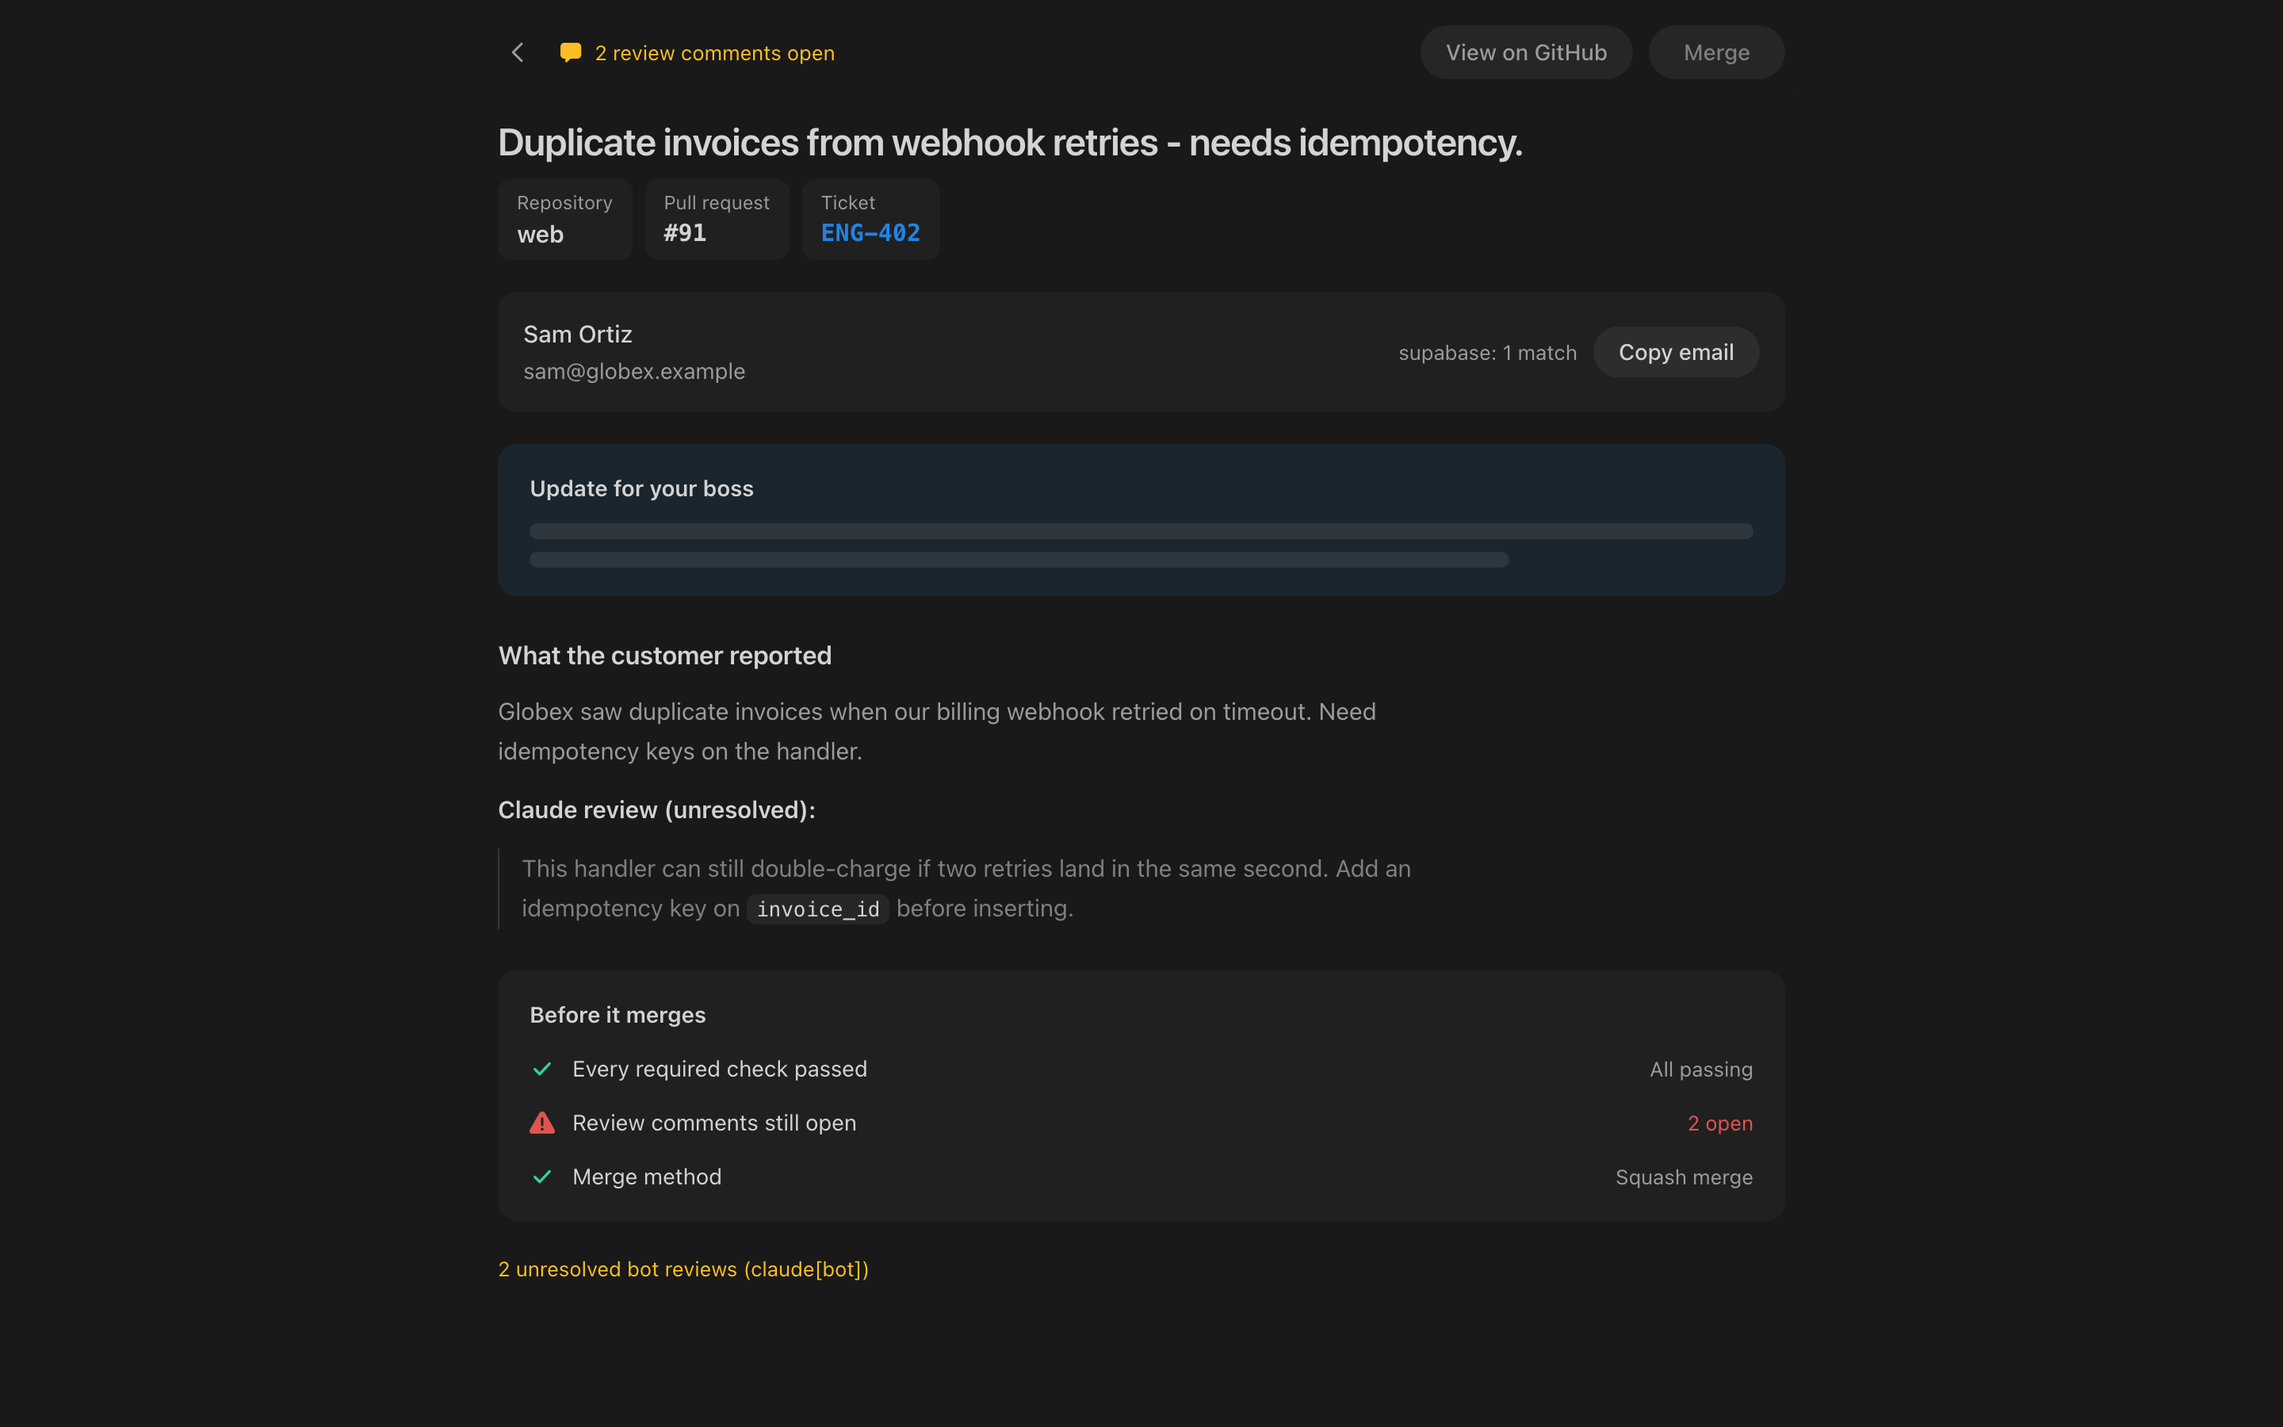
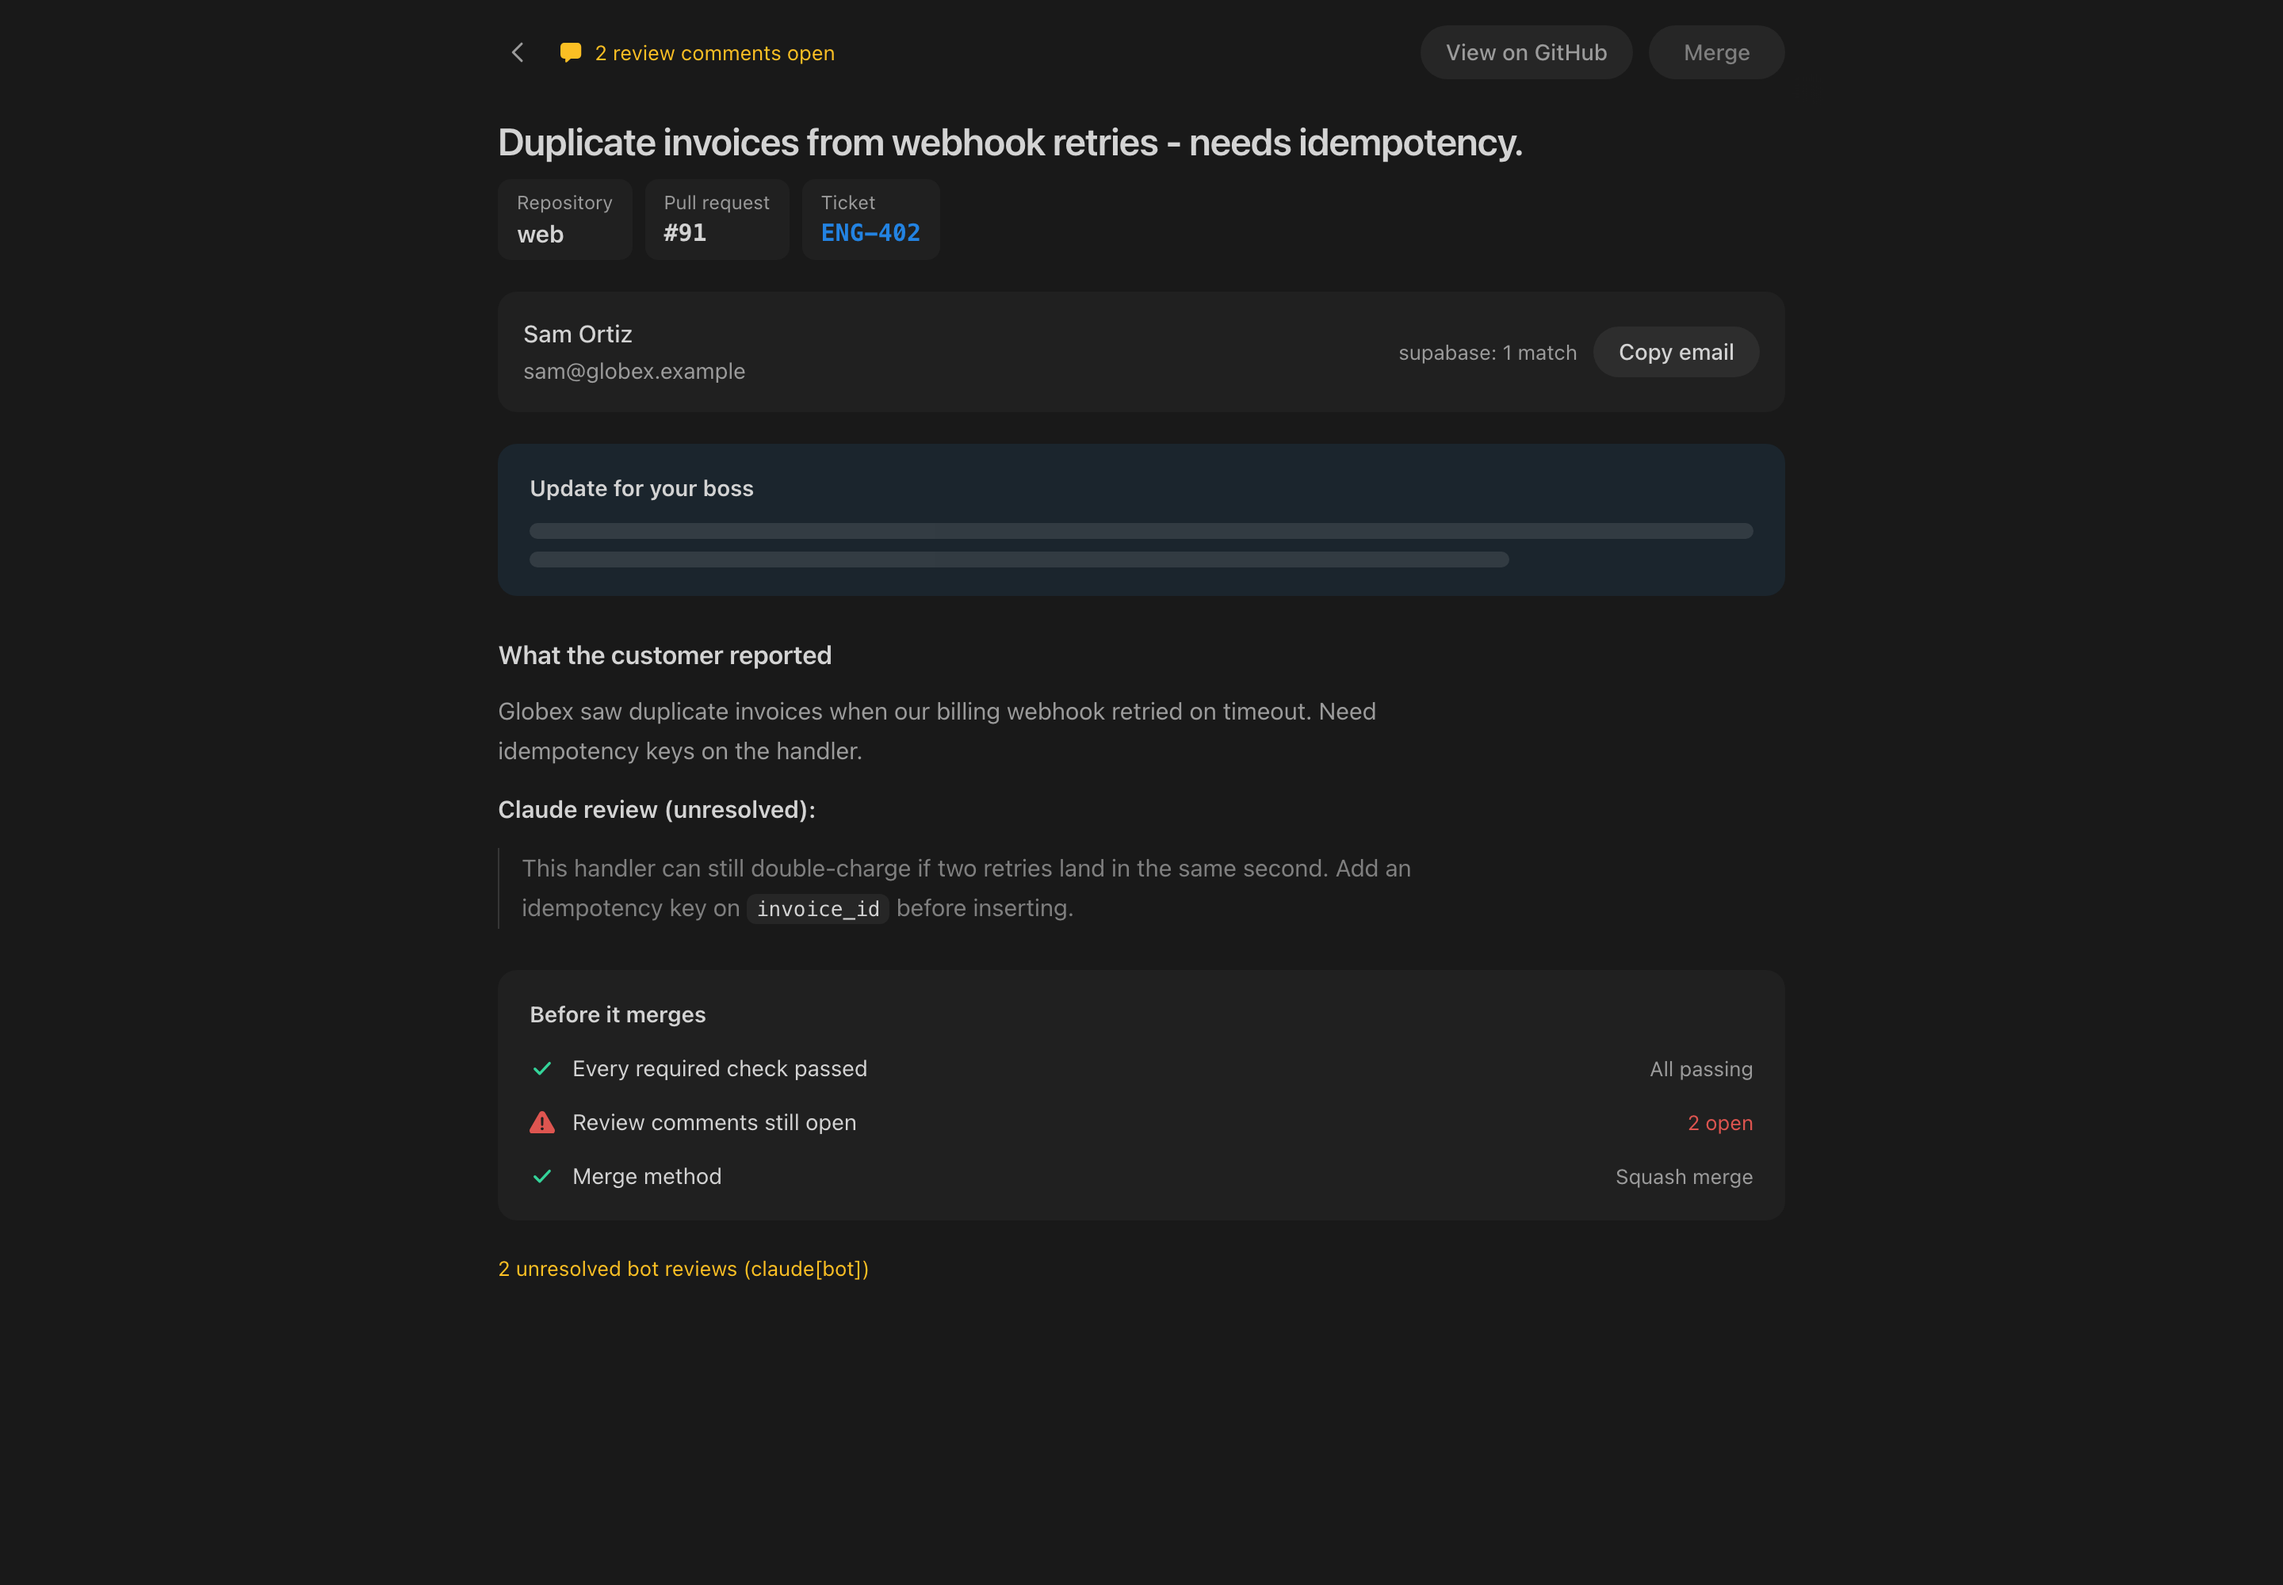
De-brand the UI and expand the setup guide
Replace the Slashy logo and favicon with a neutral git-merge mark, grow the
mock queue to seven varied rows (ready / running / failing / bot-blocked / no
customer) for a fuller demo, and rewrite the README into a step-by-step "connect
your data" guide covering GitHub, Linear, Supabase/PostHog, Anthropic, Realtime,
and access control - with what each connection powers and how it degrades when
skipped. Generic placeholders replace Slashy-specific env defaults.

diff --git a/src/lib/mock.ts b/src/lib/mock.ts
@@ -130,4 +130,162 @@ export const mockQueue: QueueItem[] = [
     mergeable: false,
     blockedReason: "CI not green",
   },
+  {
+    id: "acme-labs/web#104",
+    repo: "acme-labs/web",
+    number: 104,
+    title: "Dark mode dashboard charts render white",
+    author: "priya",
+    url: "https://github.com/acme-labs/web/pull/104",
+    createdAt: "2026-08-17T10:20:00Z",
+    updatedAt: "2026-08-17T12:05:00Z",
+    ticket: {
+      id: "ENG-418",
+      title: "Charts unreadable in dark mode",
+      description:
+        "Initech switched to dark mode and every chart axis renders white-on-white. Only the analytics dashboard is affected.",
+      url: "https://linear.app/acme-labs/issue/ENG-418",
+      customerField: "Initech",
+      customer: {
+        name: "Initech",
+        domains: ["initech.example"],
+        emails: ["dana@initech.example"],
+        tier: null,
+      },
+      filedBy: { name: "Priya Nair", email: "priya@acme-labs.example" },
+    },
+    customer: {
+      name: "Initech",
+      email: "dana@initech.example",
+      source: "linear",
+      verified: true,
+      candidates: [],
+      trail: ["linear customer record"],
+    },
+    problem: "Dark mode charts render white-on-white on the analytics dashboard.",
+    gate: {
+      ciGreen: true,
+      ciState: "passing",
+      unresolvedBotReviews: 0,
+      blockingBots: [],
+    },
+    mergeable: true,
+    blockedReason: null,
+  },
+  {
+    id: "acme-labs/api#495",
+    repo: "acme-labs/api",
+    number: 495,
+    title: "Cache stale plan after upgrade",
+    author: "jordan",
+    url: "https://github.com/acme-labs/api/pull/495",
+    createdAt: "2026-08-17T13:15:00Z",
+    updatedAt: "2026-08-17T15:42:00Z",
+    ticket: {
+      id: "ENG-421",
+      title: "Upgraded customers still see the free plan",
+      description:
+        "Umbrella Co upgraded to Pro but the app kept showing free-tier limits for ~10 minutes. Plan cache isn't invalidated on upgrade.",
+      url: "https://linear.app/acme-labs/issue/ENG-421",
+      customerField: "Umbrella Co",
+      customer: {
+        name: "Umbrella Co",
+        domains: ["umbrella.example"],
+        emails: ["leon@umbrella.example"],
+        tier: null,
+      },
+      filedBy: { name: "Jordan Lee", email: "jordan@acme-labs.example" },
+    },
+    customer: {
+      name: "Umbrella Co",
+      email: "leon@umbrella.example",
+      source: "supabase",
+      verified: true,
+      candidates: [],
+      trail: ["supabase: 1 match on domain"],
+    },
+    problem: "Plan cache not invalidated on upgrade - Pro users see free limits.",
+    gate: {
+      ciGreen: true,
+      ciState: "pending",
+      unresolvedBotReviews: 0,
+      blockingBots: [],
+    },
+    mergeable: false,
+    blockedReason: "Checks are still running",
+  },
+  {
+    id: "acme-labs/api#498",
+    repo: "acme-labs/api",
+    number: 498,
+    title: "Escape user input in CSV export",
+    author: "maya",
+    url: "https://github.com/acme-labs/api/pull/498",
+    createdAt: "2026-08-17T16:02:00Z",
+    updatedAt: "2026-08-17T17:30:00Z",
+    ticket: {
+      id: "ENG-425",
+      title: "Formula injection risk in CSV export",
+      description:
+        "Security review flagged that exported CSVs don't escape leading =, +, - or @, so a crafted field can execute in spreadsheet apps.\n\n**Claude review (unresolved):**\n> Prefix risky cells with a single quote, but also strip control characters - a tab before `=` still triggers evaluation in some clients.",
+      url: "https://linear.app/acme-labs/issue/ENG-425",
+      customerField: null,
+      customer: null,
+      filedBy: { name: "Maya Chen", email: "maya@acme-labs.example" },
+    },
+    customer: {
+      name: null,
+      email: null,
+      source: "none",
+      verified: false,
+      candidates: [],
+      trail: ["internal security finding - no external customer"],
+    },
+    problem: "CSV export doesn't escape formula characters - injection risk.",
+    gate: {
+      ciGreen: true,
+      ciState: "passing",
+      unresolvedBotReviews: 1,
+      blockingBots: ["claude[bot]"],
+    },
+    mergeable: false,
+    blockedReason: "1 unresolved bot review (claude[bot])",
+  },
+  {
+    id: "acme-labs/web#110",
+    repo: "acme-labs/web",
+    number: 110,
+    title: "Onboarding email links point to staging",
+    author: "priya",
+    url: "https://github.com/acme-labs/web/pull/110",
+    createdAt: "2026-08-18T08:45:00Z",
+    updatedAt: "2026-08-18T09:20:00Z",
+    ticket: {
+      id: "ENG-430",
+      title: "Welcome email links go to staging",
+      description:
+        "Wonka Inc reported that links in the welcome email open the staging site. Base URL isn't set from env in the email templates.",
+      url: "https://linear.app/acme-labs/issue/ENG-430",
+      customerField: null,
+      customer: null,
+      filedBy: { name: "Priya Nair", email: "priya@acme-labs.example" },
+    },
+    customer: {
+      name: "Charlie Bucket",
+      email: "charlie@wonka.example",
+      source: "posthog",
+      verified: true,
+      candidates: [],
+      trail: ['name in ticket: "Charlie"', "posthog: 1 match"],
+    },
+    problem: "Welcome email links point at staging instead of production.",
+    gate: {
+      ciGreen: true,
+      ciState: "passing",
+      unresolvedBotReviews: 0,
+      blockingBots: [],
+    },
+    mergeable: true,
+    blockedReason: null,
+  },
 ];

diff --git a/src/components/rundown.tsx b/src/components/rundown.tsx
@@ -492,14 +492,7 @@ function Rail({
   return (
     <aside className="hidden w-[220px] shrink-0 flex-col gap-[20px] self-stretch bg-surface-2 px-[12px] pb-[16px] pt-[20px] md:flex">
       <div className="flex items-center gap-[9px] px-[8px] pb-[4px]">
-        {/* eslint-disable-next-line @next/next/no-img-element */}
-        <img
-          src="/slashy.png"
-          alt="Slashy"
-          width={22}
-          height={22}
-          className="rounded-[6px]"
-        />
+        <BrandMark />
         <span className="text-[14px] font-semibold leading-[18px] tracking-[-0.01em] text-text">
           Merge control
         </span>
@@ -1437,6 +1430,35 @@ function Empty({ children }: { children: React.ReactNode }) {
 
 /* ------------------------------------------------------------------ icons */
 /* Paths taken verbatim from the Paper file so the build matches the design. */
+
+/**
+ * Neutral product mark: a git-merge glyph on an accent tile. Deliberately
+ * generic so the app carries no third-party branding - swap the glyph or tile
+ * colour to make it yours.
+ */
+function BrandMark() {
+  return (
+    <span
+      aria-hidden
+      className="flex h-[22px] w-[22px] shrink-0 items-center justify-center rounded-[6px] bg-accent"
+    >
+      <svg
+        width="13"
+        height="13"
+        viewBox="0 0 24 24"
+        fill="none"
+        stroke="white"
+        strokeWidth="2.2"
+        strokeLinecap="round"
+        strokeLinejoin="round"
+      >
+        <circle cx="18" cy="18" r="3" />
+        <circle cx="6" cy="6" r="3" />
+        <path d="M6 21V9a9 9 0 0 0 9 9" />
+      </svg>
+    </span>
+  );
+}
 
 function IconTray() {
   return (

diff --git a/src/proxy.ts b/src/proxy.ts
@@ -85,6 +85,6 @@ export const config = {
       GitHub's webhook receiver, and static assets. External services cannot
       present our login cookie; each exempt endpoint verifies its own secret.
     */
-    "/((?!login|api/login|api/slack|api/github/webhook|_next/static|_next/image|icon.png|favicon.ico).*)",
+    "/((?!login|api/login|api/slack|api/github/webhook|_next/static|_next/image|icon.svg|icon.png|favicon.ico).*)",
   ],
 };

diff --git a/README.md b/README.md
@@ -103,23 +103,82 @@ are deleted immediately, and expired rows are cleaned daily. The migration
 enables RLS, grants access only to the service role, and uses a sync marker so
 the five-row first paint can never be mistaken for the complete queue.
 
-## Config
+## Connect your data
 
-See [`.env.example`](./.env.example). Minimum to go live:
+Merge Desk is a shell that joins your own tools together — it ships with **no
+data of its own**. Out of the box it runs in mock mode; to point it at real
+work, connect the services below. Each one is optional except GitHub, and the
+app degrades gracefully when a connection is missing (a PR with no ticket still
+lists and still merges; a PR with no resolved customer falls back to whoever
+filed it).
 
-| Variable | Purpose |
-|---|---|
-| `GITHUB_TOKEN` | Repo + merge access. Locally falls back to `gh auth token`. |
-| `GITHUB_REPOS` | Comma-separated `owner/repo` allowlist. |
-| `MQ_PASSWORD` | Shared sign-in password. **Required in production.** |
-| `LINEAR_API_KEY` | Ticket + customer lookup. |
-| `SUPABASE_*` / `POSTHOG_*` | Email resolution; Supabase also holds the shared 7-day queue and summary cache. |
-| `ANTHROPIC_API_KEY` | Boss updates + screenshot contact extraction. |
-| `OWN_EMAIL_DOMAINS` | e.g. `slashy.com,slashy.ai` — never treated as customers. |
-| `OWN_COMPANY_NAMES` | e.g. `Slashy` — same filter for display names. |
+Copy [`.env.example`](./.env.example) to `.env.local` and fill in what you have.
 
-Slack vars are documented in [`SLACK.md`](./SLACK.md) and left empty until
-that integration is turned on.
+### 1. GitHub — required
+
+The only connection you actually need. Without it the app stays in mock mode.
+
+- `GITHUB_TOKEN` — a token (classic or fine-grained) with `repo` scope so it can
+  read PRs, CI status, review threads, and perform the squash merge. Locally it
+  falls back to `gh auth token`; on a server you must set it explicitly.
+- `GITHUB_REPOS` — comma-separated `owner/repo` allowlist. This is also the
+  merge allowlist: the app will refuse to merge anything outside it.
+- `GITHUB_WEBHOOK_SECRET` — optional but recommended. Add a webhook in each repo
+  pointing at `/api/github/webhook` (events: pull request, check run, review
+  thread) so the board updates the instant a PR moves instead of on the poll.
+
+### 2. Linear — tickets & customers (optional)
+
+Turns a PR into "who reported this and why". Skip it and rows just show the PR
+title with no ticket or customer.
+
+- `LINEAR_API_KEY` — reads the issue referenced from the PR branch/title/body
+  (default pattern `SLA-####`, adjust in `src/lib/linear.ts`) plus any linked
+  Linear **customer** record.
+
+### 3. Customer lookup — Supabase & PostHog (optional)
+
+Used to turn a name in a ticket into a **reachable email**, when Linear alone
+can't. This is the part you tailor to your own backend — the queries in
+`src/lib/supabase.ts` and `src/lib/posthog.ts` assume a users table and a
+persons index; edit them to match your schema.
+
+- `SUPABASE_URL`, `SUPABASE_SERVICE_KEY` — connect your product's user database.
+  `SUPABASE_USERS_TABLE` / `SUPABASE_EMAIL_COLUMN` name the table and email
+  column to search.
+- `POSTHOG_HOST`, `POSTHOG_PERSONAL_API_KEY`, `POSTHOG_PROJECT_ID` — look up a
+  person by name when they aren't in your DB yet.
+
+Supabase does double duty: if configured, it also stores the shared **7-day
+queue + summary cache** and powers live updates (below). Run the migration in
+`supabase/migrations/` once to create those tables.
+
+### 4. Boss updates — Anthropic (optional)
+
+- `ANTHROPIC_API_KEY` — generates the two-sentence, non-technical summary per
+  ticket and reads customer contacts out of ticket screenshots. Skip it and the
+  update section simply stays empty.
+- `ANTHROPIC_MODEL` — defaults to a Haiku model; override to trade cost/quality.
+
+### 5. Live updates — Supabase Realtime (optional)
+
+- `NEXT_PUBLIC_SUPABASE_URL`, `NEXT_PUBLIC_SUPABASE_ANON_KEY` — let the browser
+  subscribe to a broadcast channel so the board refreshes within a second of a
+  change. The anon key is safe to expose: the ping carries no PR data and RLS
+  keeps that key out of every table. Leave blank to fall back to polling.
+
+### 6. Access control — always set before deploying
+
+- `MQ_PASSWORD` — shared sign-in password. **A production build with no password
+  refuses to serve.** This surface lists customer emails and can merge `main`.
+- `MQ_ACCESS_TOKENS` — optional machine tokens for scripts (`x-mq-token` header).
+- `OWN_EMAIL_DOMAINS` / `OWN_COMPANY_NAMES` — your own domains and names, so your
+  teammates are never mistaken for the customer being helped.
+
+### 7. Slack (optional)
+
+One card per newly mergeable PR, each with its own Merge button. See
+[`SLACK.md`](./SLACK.md); all `SLACK_*` vars stay empty until you turn it on.
 
 ## Signing in
 
